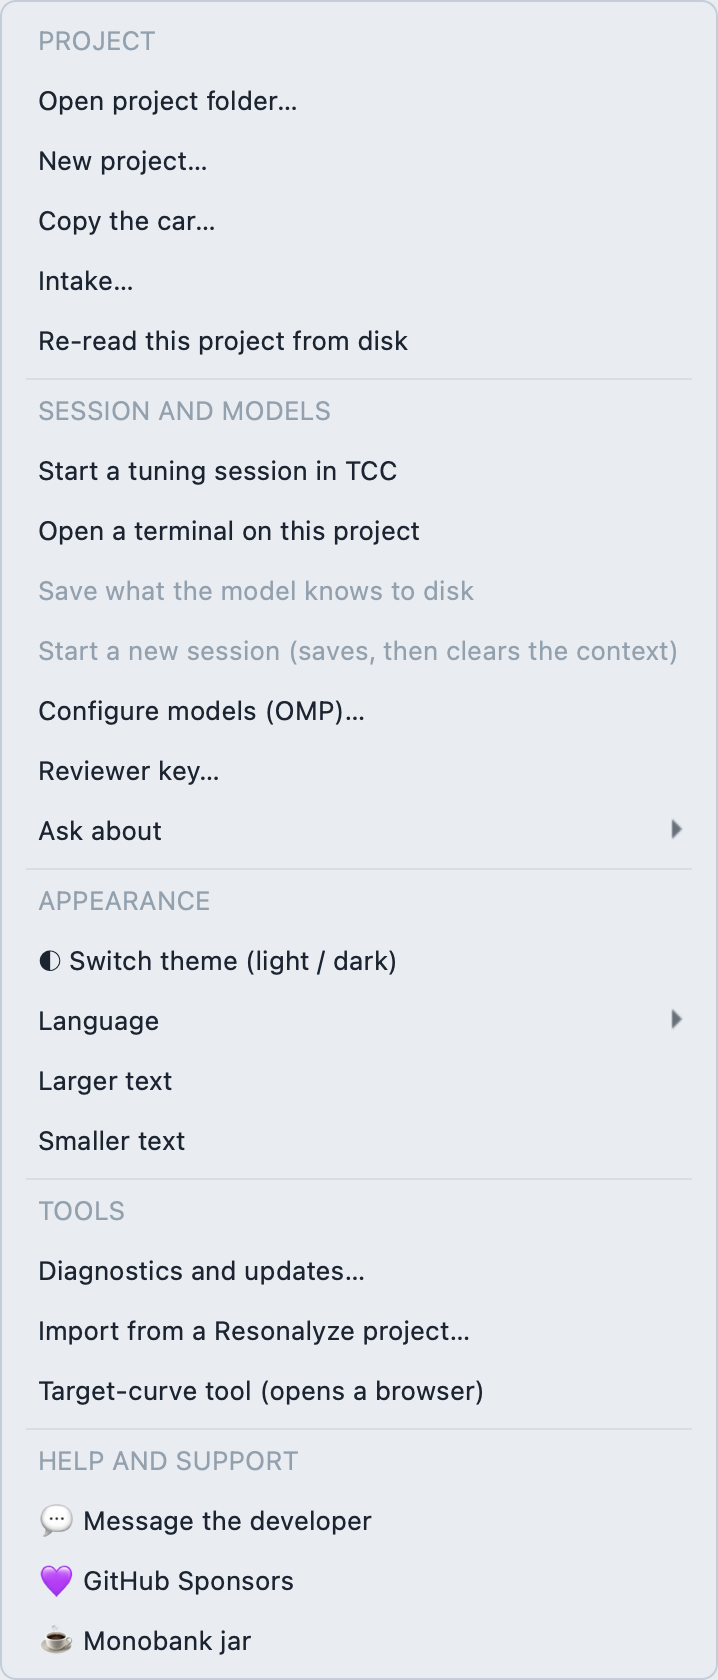
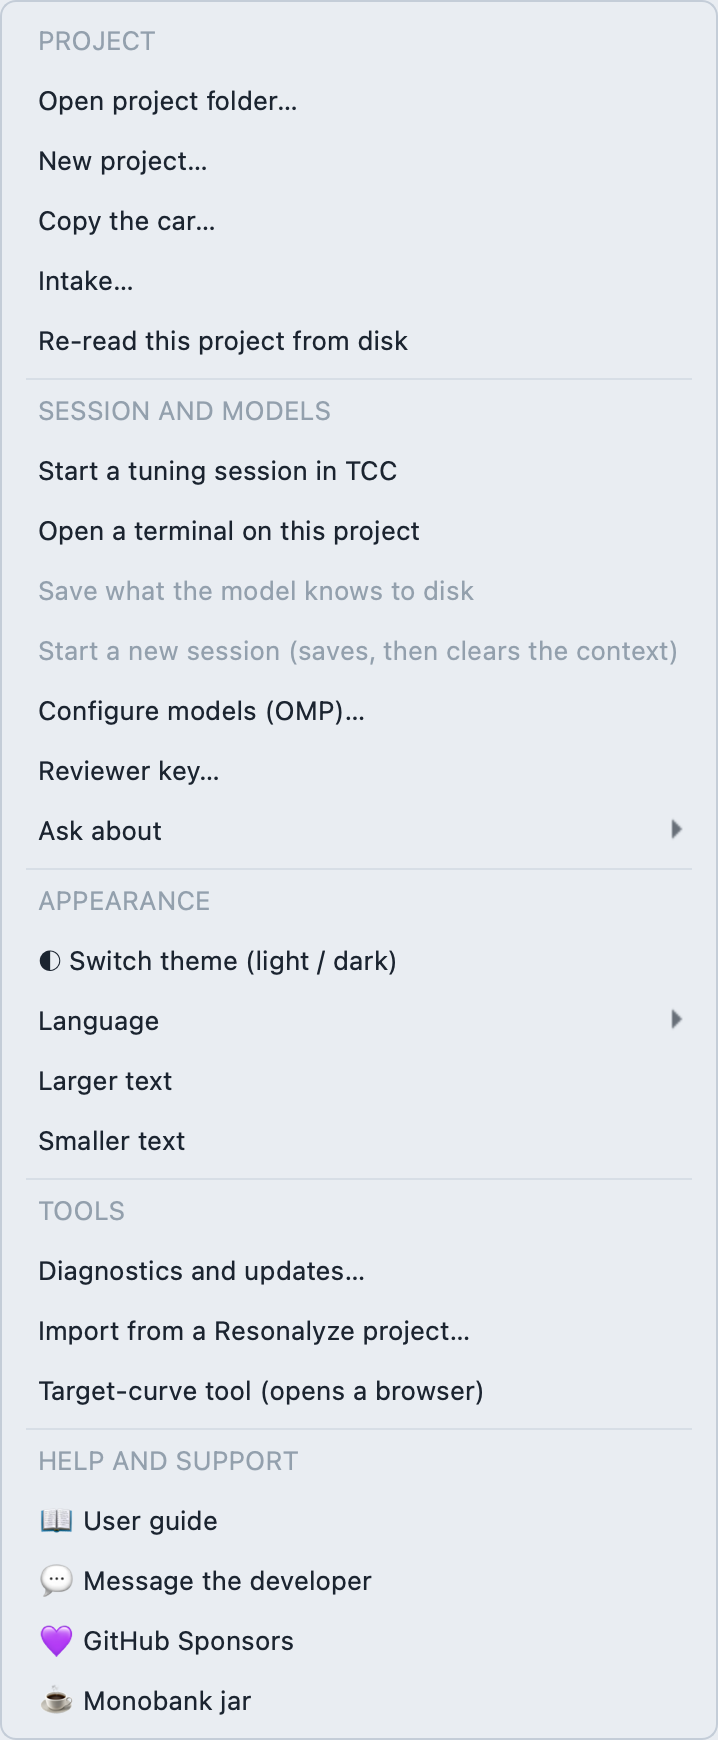
Help → User guide: opens the guide on GitHub at the installed tag (#49)
docs/ is not in the uv tool package, and the screens change between versions, so the entry opens
the guide's GitHub page at the ref this build is: the tag it was installed at (a release or a
candidate), else v<version>, else main (core/guide.py, hub #202 SKL-053 ask 4). Strings in four
languages, translated through the Advisor. The reference and its menu screenshot show the entry.

diff --git a/src/autosound_tcc/ui/tcc/i18n.py b/src/autosound_tcc/ui/tcc/i18n.py
@@ -760,6 +760,8 @@ Start TCC again; if it keeps happening, the reason is here and in the log:",
         # the destination instead of the genre asks nobody to categorise themselves
         # before they have written the sentence.
         "fbBig": "Message the developer",
+        "menuGuide": "User guide",
+        "menuGuideTip": "Opens the guide for this version on GitHub: the window, panel by panel, with screenshots.",
         "fbBigTip": "A bug, an idea, a question, "
                     "\u201cthis makes no sense\u201d \u2014 all of it goes here. A screenshot can come with it.",
         "fbHead": "Message the developer",
@@ -1844,6 +1846,8 @@ Choose sweeps (sw) above to read this.",
         "supportGithub": "💜 GitHub Sponsors",
         "supportMonobank": "☕ Банка на Monobank",
         "fbBig": "Написати розробнику",
+        "menuGuide": "Посібник користувача",
+        "menuGuideTip": "Відкриває посібник для цієї версії на GitHub: вікно панель за панеллю, зі знімками екрана.",
         "fbBigTip": "Баг, ідея, питання, «тут незрозуміло» — усе сюди. Можна прикріпити скріншот.",
         "fbHead": "Написати розробнику",
         "fbHint": "Напишіть, що подобається / що змінити. Скористайтесь кнопками B / I / "
@@ -2945,6 +2949,8 @@ Choose sweeps (sw) above to read this.",
         "supportGithub": '💜 GitHub Sponsors',
         "supportMonobank": '☕ Zbiórka na Monobank',
         "fbBig": 'Napisz do dewelopera',
+        "menuGuide": "Podręcznik użytkownika",
+        "menuGuideTip": "Otwiera podręcznik dla tej wersji na GitHub: okno panel po panelu, ze zrzutami ekranu.",
         "fbBigTip": 'Błąd, pomysł, pytanie, „to nie ma sensu” — wszystko tutaj. Można dołączyć zrzut ekranu.',
         "fbHead": 'Napisz do autora',
         "fbHint": 'Napisz, co się podoba / co zmienić. Skorzystaj z przycisków B / I / lista — nie trzeba pisać '
@@ -4080,6 +4086,8 @@ Choose sweeps (sw) above to read this.",
         "supportGithub": '💜 GitHub Sponsors',
         "supportMonobank": '☕ Monobank-Sammeldose',
         "fbBig": 'Dem Entwickler schreiben',
+        "menuGuide": "Benutzerhandbuch",
+        "menuGuideTip": "Öffnet das Handbuch für diese Version auf GitHub: das Fenster, Panel für Panel, mit Screenshots.",
         "fbBigTip": 'Ein Fehler, eine Idee, eine Frage, „das ergibt keinen Sinn“ — alles kommt hierher. Ein '
                     'Screenshot kann mit.',
         "fbHead": 'Dem Entwickler schreiben',

diff --git a/tests/test_guide.py b/tests/test_guide.py
@@ -1,0 +1,42 @@
+"""The user guide lives online, in this repository, and the app opens it at the INSTALLED version.
+
+`docs/` does not ship in the `uv tool` package, so the guide is a page on GitHub. The screens change
+between versions, and a link to `main` would show a guide for a build the user does not have
+(hub #202 SKL-053, ask 4; tcc #49).
+"""
+
+from __future__ import annotations
+
+from autosound_tcc.core import guide
+
+_BLOB = "https://github.com/ayukhno/autosound-tcc/blob"
+
+
+def test_the_tag_the_app_was_installed_at_is_the_one_linked():
+    assert guide.guide_url("0.1.44", "v0.1.44") == f"{_BLOB}/v0.1.44/docs/guide/QUICK-GUIDE.md"
+
+
+def test_a_candidate_build_links_its_own_candidate_tag_not_the_release_in_its_metadata():
+    # A candidate's metadata may still carry the release before it (RELEASE-CHANNEL.md §11.3).
+    assert guide.guide_url("0.1.43", "beta-v0.1.44-rc1") == (
+        f"{_BLOB}/beta-v0.1.44-rc1/docs/guide/QUICK-GUIDE.md"
+    )
+
+
+def test_without_a_requested_tag_the_version_names_it():
+    assert guide.guide_url("0.1.44", "") == f"{_BLOB}/v0.1.44/docs/guide/QUICK-GUIDE.md"
+
+
+def test_a_ref_that_is_not_a_tag_does_not_become_the_link():
+    # Installed from a branch or a commit: the version still says which release this is.
+    assert guide.guide_url("0.1.44", "main") == f"{_BLOB}/v0.1.44/docs/guide/QUICK-GUIDE.md"
+
+
+def test_with_nothing_known_the_guide_opens_on_main():
+    assert guide.guide_url("", "") == f"{_BLOB}/main/docs/guide/QUICK-GUIDE.md"
+
+
+def test_another_page_of_the_guide_can_be_asked_for():
+    assert guide.guide_url("0.1.44", "v0.1.44", "HOUSE-CURVE.md") == (
+        f"{_BLOB}/v0.1.44/docs/guide/HOUSE-CURVE.md"
+    )

diff --git a/src/autosound_tcc/core/guide.py b/src/autosound_tcc/core/guide.py
@@ -1,0 +1,37 @@
+"""Where the user guide is, for the build that is running.
+
+The guide is `docs/guide/` in this repository, and `docs/` does not ship in the `uv tool` package,
+so the app opens it on GitHub, which renders the Markdown and opens a screenshot at full size on a
+click. It opens at the INSTALLED version: the screens change between versions, and a link to `main`
+would show a guide for a build the user does not have (hub #202 SKL-053, ask 4; tcc #49).
+"""
+
+from __future__ import annotations
+
+import re
+
+from autosound_tcc.core import install_report
+from autosound_tcc.core.updates import TCC_REPO
+
+QUICK_GUIDE = "QUICK-GUIDE.md"
+
+#: A release tag (`v0.1.44`) or a candidate's (`beta-v0.1.44-rc1`). Anything else a package can be
+#: installed at -- a branch, a commit -- says nothing about which release's screens these are.
+_TAG = re.compile(r"^(beta-)?v\d+\.\d+\.\d+")
+
+
+def guide_url(version: str, revision: str, page: str = QUICK_GUIDE) -> str:
+    """The guide page on GitHub at the ref this build is: the tag it was installed at, else the
+    release its version names, else `main` when neither is known."""
+    if _TAG.match(revision or ""):
+        ref = revision
+    elif version:
+        ref = f"v{version}"
+    else:
+        ref = "main"
+    return f"{TCC_REPO}/blob/{ref}/docs/guide/{page}"
+
+
+def installed_guide_url(page: str = QUICK_GUIDE) -> str:
+    """`guide_url` for the build that is running."""
+    return guide_url(install_report.app_version(), install_report.requested_revision(), page)

diff --git a/tests/test_main_window.py b/tests/test_main_window.py
@@ -3094,6 +3094,29 @@ def test_the_main_menu_gathers_the_whole_window_in_sections():
     assert any(a.menu() and a.text() == i18n.t("menuLanguage") for a in actions)
 
 
+def test_the_guide_entry_opens_the_guide_at_the_installed_version(monkeypatch):
+    """Help → the user guide, on GitHub at this build's own tag (tcc #49, hub #202 SKL-053).
+    `docs/` is not in the installed package, so the menu opens the page rather than a file."""
+    from PySide6.QtGui import QDesktopServices
+
+    from autosound_tcc.core import guide
+
+    _app()
+    monkeypatch.setattr(guide, "installed_guide_url", lambda page=guide.QUICK_GUIDE:
+                        f"https://example.invalid/v9.9.9/{page}")
+    opened: list[str] = []
+    monkeypatch.setattr(QDesktopServices, "openUrl", lambda url: opened.append(url.toString()))
+    window = MainWindow()
+    _KEEP_WINDOWS.append(window)  # see `_KEEP_WINDOWS`
+
+    actions = window._menu_btn.menu().actions()
+    help_at = next(i for i, a in enumerate(actions) if a.text() == i18n.t("menuHelp").upper())
+    entry = next(a for a in actions[help_at:] if i18n.t("menuGuide") in a.text())
+    entry.trigger()
+
+    assert opened == ["https://example.invalid/v9.9.9/QUICK-GUIDE.md"]
+
+
 def test_the_main_menu_follows_a_language_switch():
     """A menu item's label is set once, at construction -- so before this the menu kept the
     language it was born in while the window changed around it. It is rebuilt now, which is also

diff --git a/src/autosound_tcc/ui/tcc/main_window.py b/src/autosound_tcc/ui/tcc/main_window.py
@@ -62,6 +62,7 @@ from autosound_tcc.core import (
     contract_check,
     critic,
     form_report,
+    guide,
     handoff,
     install_report,
     intake_form,
@@ -1116,6 +1117,13 @@ class MainWindow(QMainWindow):
         target_action.triggered.connect(self._open_target_curve_tool)
 
         self._menu_section(menu, "menuHelp")
+        # Online, at this build's own tag: `docs/` is not in the installed package, and a link to
+        # `main` would show the screens of another version (tcc #49, hub #202 SKL-053).
+        guide_action = menu.addAction("📖 " + i18n.t("menuGuide"))
+        guide_action.setToolTip(i18n.t("menuGuideTip"))
+        guide_action.triggered.connect(
+            lambda: QDesktopServices.openUrl(QUrl(guide.installed_guide_url()))
+        )
         feedback_action = menu.addAction("💬 " + i18n.t("fbBig"))
         feedback_action.setToolTip(i18n.t("fbBigTip"))
         feedback_action.triggered.connect(self._open_feedback)

diff --git a/docs/TODO.md b/docs/TODO.md
@@ -2010,6 +2010,16 @@ thread (the F-053 class). Measured on this file: 1 run in 10 before this change,
 a layout change that shifts timing by milliseconds is enough to find it. The test now says its
 availability out loud, the way it already said `critic_reaches`. 6 runs of the file green after.
 
+### F-085 — Help → User guide, at the installed tag (#49)
+
+**Статус**: built on `wave-0.1.44` 2026-09-23 on the Arbiter's OK («зроби 49 зараз»), ships with W-3
+
+`core/guide.py`: the guide's GitHub page at the ref this build is: the tag it was installed at
+(`requested_revision`, a release or a candidate), else `v<version>`, else `main`. The menu entry in
+Help and support opens it; strings in four languages through the Advisor. Tests:
+`tests/test_guide.py` (6), `test_the_guide_entry_opens_the_guide_at_the_installed_version`. The
+menu screenshot in `docs/guide/img/menu.webp` shows the entry.
+
 ### F-084 — The house-curve page (#48, hub #202 SKL-053)
 
 **Статус**: built on `wave-0.1.44` 2026-09-23 on the Arbiter's OK (label `ok`), ships with W-3 · waits for the Arbiter to read it

diff --git a/CHANGELOG.md b/CHANGELOG.md
@@ -19,6 +19,8 @@ tagged from the Unreleased notes with `make ship CANDIDATE=vX.Y.Z` and reaches o
 - **A user guide with screenshots, in English.** [TCC in eight screens](docs/guide/QUICK-GUIDE.md)
   is a short tour of the window; [the full reference](docs/guide/REFERENCE.md) covers every panel,
   dialog and button. The screenshots come from a real project, its notes translated into English.
+- **Help → 📖 User guide.** Opens the guide on GitHub at the version you have installed, since the
+  guide is not part of the installed package and its screens change between versions.
 - **A guide to the house curve in TCC.** [The house curve in TCC](docs/guide/HOUSE-CURVE.md): where
   the window shows the target curve, how it opens the method's target-curve tool, and the tool's
   buttons (loading curves and measurements, Compare, Analyze), with screenshots. What a target curve

diff --git a/docs/guide/REFERENCE.md b/docs/guide/REFERENCE.md
@@ -297,7 +297,8 @@ full window back. Both borders can be dragged, and TCC remembers where you left 
 - **Appearance**: theme, language, text size.
 - **Tools**: diagnostics and updates, importing from a Resonalyze project, the
   [target-curve tool](HOUSE-CURVE.md).
-- **Help and support**: message the developer. The support links are next to it.
+- **Help and support**: **📖 User guide** opens this guide on GitHub, at the version you have
+  installed. Then message the developer, and the support links.
 
 ## Dialogs
 
